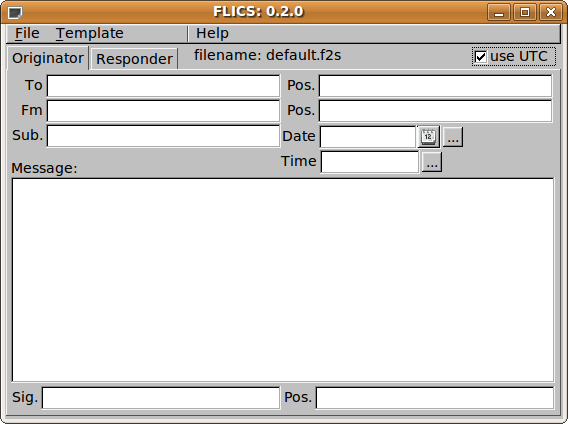
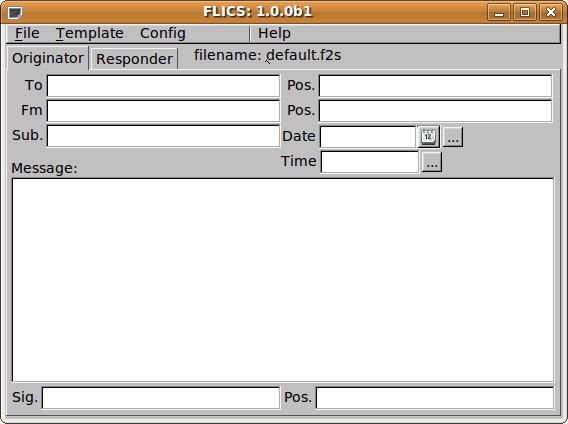
Version 1.0.0b1
Beta release

Changed region(s): [[0.2394, 0.0, 0.5687, 0.092], [0.8081, 0.092, 0.9577, 0.1533]]

diff --git a/flics-doc/flics-quick-guide.html b/flics-doc/flics-quick-guide.html
@@ -2,6 +2,7 @@
 <html><head>
 
 
+
 <meta content="text/html; charset=ISO-8859-1" http-equiv="content-type"><title>flics-quick-guide</title></head><body>
 <h3>flics - quick guide</h3>
 flics is a simple forms management editor for the ICS-213 emergency
@@ -18,8 +19,7 @@ The user prepares, answers and views all ICS-213 data files from the single user
 <img style="width: 568px; height: 424px;" alt="" src="flics-ss1.png"><br>
 <br>
 The File and Template menus are:<br>
-<img style="width: 208px; height: 196px;" alt="" src="Menu0.png"> &nbsp;&nbsp;<img style="width: 231px; height: 219px;" alt="" src="Menu1.png"> &nbsp;  <img style="width: 131px; height: 98px;" alt="" src="Menu2.png"><br>
-<br>
+<img style="width: 208px; height: 196px;" alt="" src="Menu0.png"> &nbsp;&nbsp;<img style="width: 231px; height: 219px;" alt="" src="Menu1.png"> &nbsp;  <img style="width: 131px; height: 98px;" alt="" src="Menu2.png">&nbsp;&nbsp;&nbsp; <img style="width: 174px; height: 81px;" alt="" src="Menu3.png"><br> <br>
 File:<br>
 <div style="margin-left: 40px;">New - clear all fields and name the default file "new.f2s"<br>
 Open - open an existing file - flics data files have the extension ".f2s", read as "form 2 send"<br>
@@ -51,6 +51,13 @@ Save - save the current form as a template file, using the default (or current) 
 Save As - save the current form as a template file, user provides the filenam<br>
 </div>
 <br>
+Config:<br>
+<div style="margin-left: 40px;">Use compression - compress and base64
+encode all data transmitted; smaller transfer size for very large
+content, not human readable.&nbsp; Might result in a larger transfer file for small amount of content.<br>
+Use UTC - convert computer time to UTC for date/time stamp in ICS213 files<br>
+</div>
+<br>
 Note: data files and template files are identical.&nbsp; The only
 difference is their location in the computer directory structure and
 their extension.&nbsp; Message files and template files maintain their
@@ -77,41 +84,48 @@ rename the file to something symbolic to its current usage.<br>
 <img style="width: 568px; height: 424px;" alt="" src="flics-ss4.png"><br>
 <br>
 The data file for this template "Digi Net Report.f2t" contains:<br>
-============================= file contents ============================<br>
-&lt;flics&gt;0.1.05<br>
-&lt;to:0 <br>
+============================= file contents ============================<br>&lt;flics&gt;1.0.0b1<br>
+&lt;to:5 k2lbm<br>
 &lt;p1:0 <br>
-&lt;fm:0 <br>
+&lt;fm:5 w1hkj<br>
 &lt;p2:0 <br>
-&lt;d1:0 <br>
-&lt;t1:0 <br>
-&lt;sb:26&nbsp; wmdNBEMS 2m FM Net Report<br>
-&lt;s1:0 <br>
-&lt;p3:0 <br>
-&lt;s2:0 <br>
-&lt;p4:0 <br>
-&lt;d2:0 <br>
-&lt;t2:0 <br>
-&lt;mg:154 <br>
-1. Date Of Net&nbsp; ____<br>
+&lt;d1:10 2009-09-29<br>
+&lt;t1:9 00:03 UTC<br>
+&lt;sb:29 Situation Report - F3 tornado<br>
+&lt;s1:11 Dave Freese<br>
+&lt;p3:16 On scene manager<br>
+&lt;s2:12 Helen Freese<br>
+&lt;p4:11 Coordinator<br>
+&lt;d2:10 2009-09-29<br>
+&lt;t2:9 00:22 UTC<br>
+&lt;mg:211 1. # injured 4<br>
+2. # casualties 2<br>
+3. # displaced 30<br>
+4. Available doctors 1<br>
+5. Available nurses 2<br>
+6. Request:<br>
+&nbsp; a. shelter 30<br>
+&nbsp; b. morgue transport 2<br>
+&nbsp; c. ambulance transport 4, from Hazel Green UMC to City Hosp.<br>
 <br>
-2. # Checkins&nbsp;&nbsp; ____<br>
-<br>
-3. Net Start Time&nbsp;&nbsp;&nbsp;&nbsp;&nbsp;&nbsp; ___:___&nbsp; Local<br>
-<br>
-4. Net Close Down Time&nbsp; ___:___&nbsp; Local<br>
-<br>
-5. MISC&nbsp; ____<br>
-<br>
-6. Request:___<br>
-&lt;rp:0 <br>
+&lt;rp:100 Expect ambulance by 03:00 UTC<br>
+Coronor pickup by 08:00 UTC<br>
+Shelter ready at Hazel Green High School.<br>
 ============================= file contents ============================<br>
-The equivalent Qform data file is larger by virtue of the xml structure.<br>
+<h3>Qform data file<br>
+</h3>
+Flics can read and write Qform ICS213 data files.&nbsp; The Qform data
+file is larger by virtue of the xml structure.&nbsp; The file size
+ratio is less when the content is larger.<br>
 <br>
+<h3>Rich Text Format<br>
+</h3>
 The Rich Text Format file that the File/Write menu item produces can be
 opened with Microsoft Word, WordPad, Open Office, or any other word
 processing software that can read and write RTF files.&nbsp; Use that
-software for printing the report.<br>
+software for printing the report.&nbsp; It might be necessary to adjust
+the page margins for some RTF reader/printer applications.<br>
+<br>
 <br>
 <br>
 </body></html>
